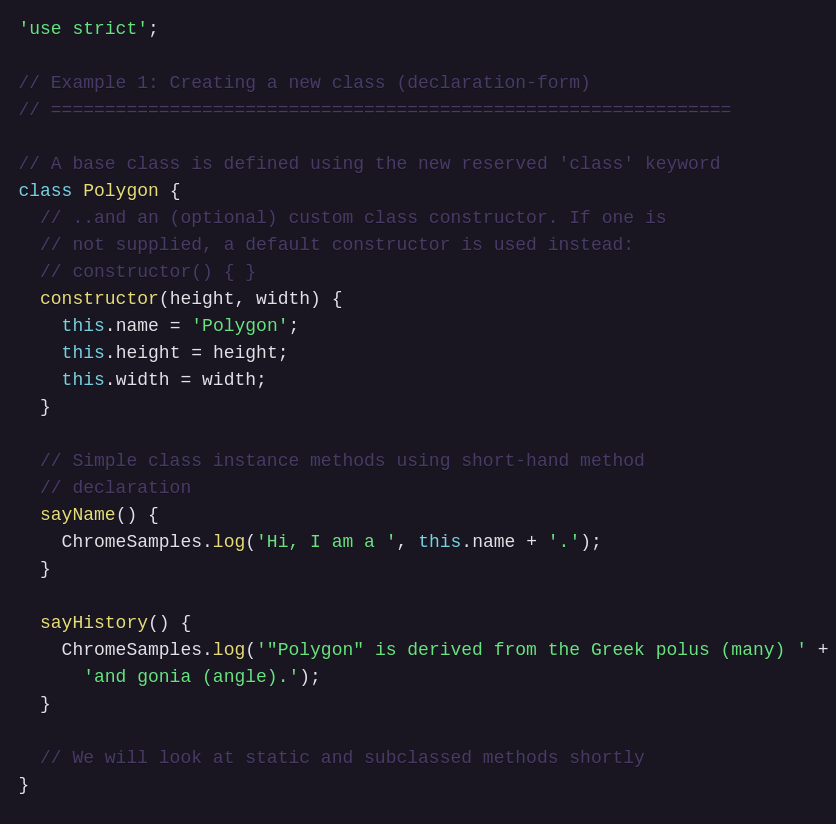
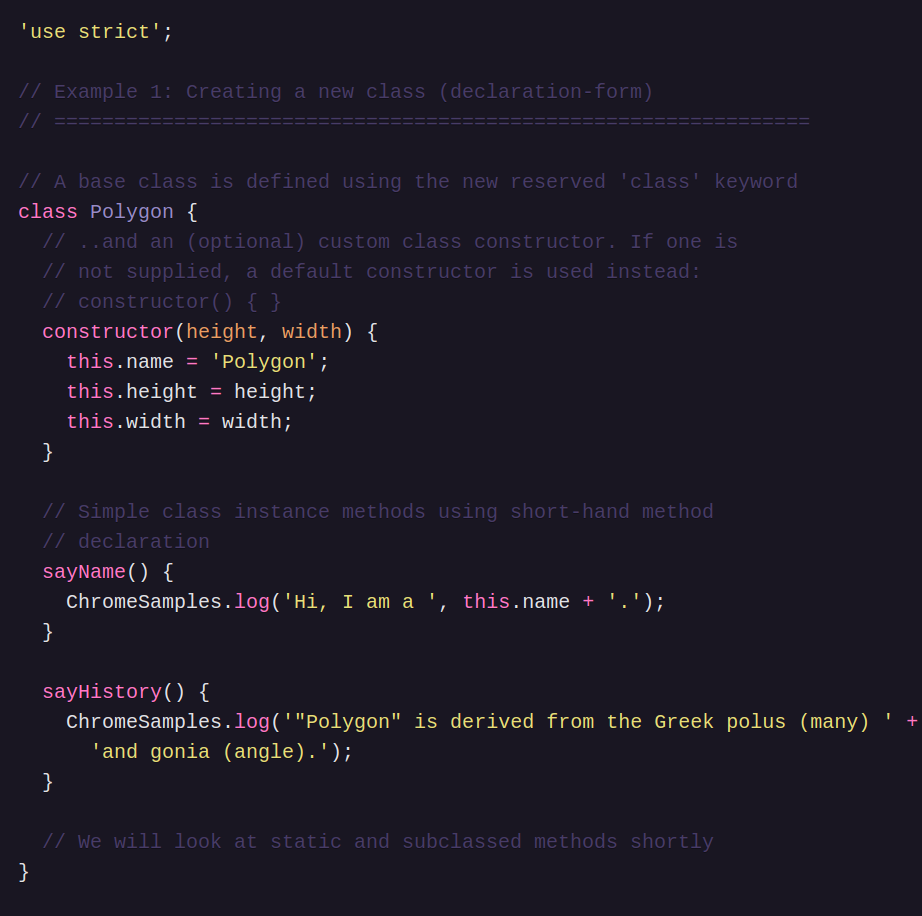
fix: adjust color scheme

diff --git a/prism-omni.css b/prism-omni.css
@@ -64,62 +64,88 @@
    opacity: .7;
  }
 
- .token.property,
- .token.tag,
- .token.constant,
- .token.symbol,
- .token.deleted {
-   color: #ff79c6;
- }
+ .token.property {
+  color: #988bc7;
+}
 
- .token.boolean,
- .token.number {
-   color: #988bc7;
- }
+.token.tag,
+.token.constant,
+.token.symbol,
+.token.deleted {
+  color: #ff79c6;
+}
 
- .token.selector,
- .token.attr-name,
- .token.string,
- .token.char,
- .token.builtin,
- .token.inserted {
-   color: #67e480;
- }
+.token.boolean,
+.token.number {
+  color: #78d1e1;
+}
 
- .token.operator,
- .token.entity,
- .token.url,
- .language-css .token.string,
- .style .token.string,
- .token.variable {
-   color: #e1e1e6;
- }
+.token.string,
+.token.attr-value {
+  color: #e7de79;
+}
 
- .token.atrule,
- .token.attr-value,
- .token.function,
- .token.class-name {
-   color: #e7de79;
- }
+.token.attr-name,
+.token.char,
+.token.builtin,
+.token.inserted {
+  color: #67e480;
+}
 
- .token.keyword {
-   color: #78d1e1;
- }
+.token.selector {
+  color: #67e480;
+}
 
- .token.regex,
- .token.important {
-   color: #e89e64;
- }
+.token.operator {
+  color: #ff79c6;
+}
 
- .token.important,
- .token.bold {
-   font-weight: bold;
- }
+.token.entity,
+.token.url,
+.language-css .token.string,
+.style .token.string,
+.token.variable {
+  color: #e1e1e6;
+}
 
- .token.italic {
-   font-style: italic;
- }
+.token.function {
+  color: #ff79c6;
+}
 
- .token.entity {
-   cursor: help;
- }
+.token.parameter {
+  color: #e89e64;
+}
+
+.token.rule {
+  color: #ff79c6;
+}
+
+.token.atrule {
+  color: #78d1e1;
+}
+
+.token.class-name {
+  color: #988bc7;
+}
+
+.token.keyword {
+  color: #ff79c6;
+}
+
+.token.regex,
+.token.important {
+  color: #e89e64;
+}
+
+.token.important,
+.token.bold {
+  font-weight: bold;
+}
+
+.token.italic {
+  font-style: italic;
+}
+
+.token.entity {
+  cursor: help;
+}
